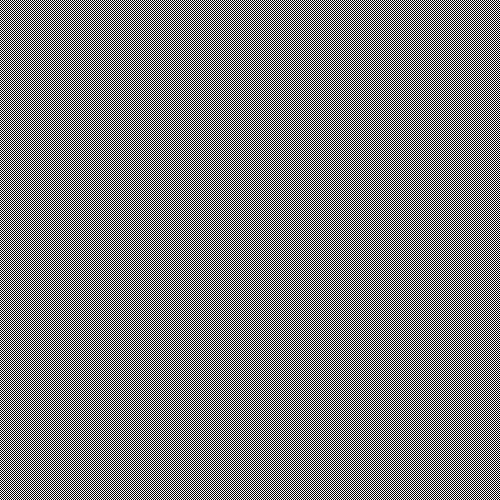
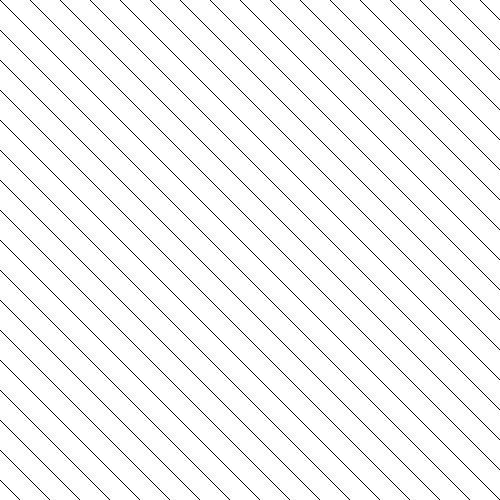
tmshv, check this

diff --git a/paint_lib.py b/paint_lib.py
@@ -5,30 +5,32 @@ from vector import Vector
 from patternline import PatternLine
 
 
-def draw_by_pattern_JPEG(test_pattern, img_size, background_color):
+def draw_by_pattern_JPEG(parsed_pattern, img_size, background_color):
     """main function for drawing JPEG"""
     local_image = Image.new('RGB', img_size, background_color)
     drawing_object = ImageDraw.Draw(local_image)
 
-    origin = Vector(test_pattern[1], test_pattern[2])
+    # tmshvs' point of view, why?
+    # origin = Vector(test_pattern[1], test_pattern[2])
 
-    local_pattern = PatternLine(test_pattern[0], origin, test_pattern[3], test_pattern[4],
-                                test_pattern[5], test_pattern[6])
+    # supposed to be parsed from file
+    local_pattern = PatternLine(parsed_pattern[0], parsed_pattern[1], parsed_pattern[2], parsed_pattern[3],
+                                parsed_pattern[4], parsed_pattern[5], parsed_pattern[6])
 
+    # test value for simplicity
+    shift = 15
+
+    # draws from origin to bottom of the image
+    jpeg_origin = Vector(parsed_pattern[1], parsed_pattern[2])
     basis_vector = Vector.from_angle(math.radians(local_pattern.angle))
-    basis_vector.multiply(img_size[0] * 2)
+    basis_vector.paint_image_out(jpeg_origin, img_size[0], shift, drawing_object)
 
-    shift = local_pattern.line_shift_perp
-    basis_vector.paint_pattern(origin, img_size[0], shift, drawing_object)
-
-    origin = Vector(test_pattern[1], test_pattern[2])
-
+    # draws from origin to top of the image
+    jpeg_origin = Vector(parsed_pattern[1], parsed_pattern[2])
     reverse_vector = Vector.from_angle(math.radians(local_pattern.angle))
-    reverse_vector.multiply(img_size[0] * 2)
+    reverse_vector.paint_image_out(jpeg_origin, img_size[0], -shift, drawing_object)
 
-    reverse_vector.paint_pattern(origin, img_size[0], -shift, drawing_object)
-
-    # save changes to object-image
+    # save changes in image
     local_image.save("test.jpeg", "jpeg")
 
     return None

diff --git a/vector.py b/vector.py
@@ -24,9 +24,12 @@ class Vector:
         self.y += shift_value
         return self
 
-    def paint_pattern(self, origin, img_size, shift, drawing_object):
-        for i in range(0, img_size):
+    def paint_image_out(self, origin, length, shift_value, drawing_object):
+        """paints the image"""
+        self.multiply(length * 2)
+        for i in range(0, length):
             drawing_object.line((origin.x, origin.y, self.x, self.y), fill=0, width=1)
-            origin.perpendicular_shift(shift)
-            self.perpendicular_shift(shift)
+            origin.perpendicular_shift(shift_value)
+            self.perpendicular_shift(shift_value)
         return None
+

diff --git a/patternline.py b/patternline.py
@@ -1,7 +1,15 @@
 class PatternLine:
-    def __init__(self, angle, origin, along, perpendicular, length, gap):
+    # def __init__(self, angle, origin, along, perpendicular, length, gap):
+    #     self.angle = angle
+    #     self.origin = origin
+    #     self.line_shift_along = along
+    #     self.line_shift_perp = perpendicular
+    #     self.dash = [length, gap]
+
+    def __init__(self, angle, x, y, along, perpendicular, length, gap):
         self.angle = angle
-        self.origin = origin
+        self.x = x
+        self.y = y
         self.line_shift_along = along
         self.line_shift_perp = perpendicular
         self.dash = [length, gap]
